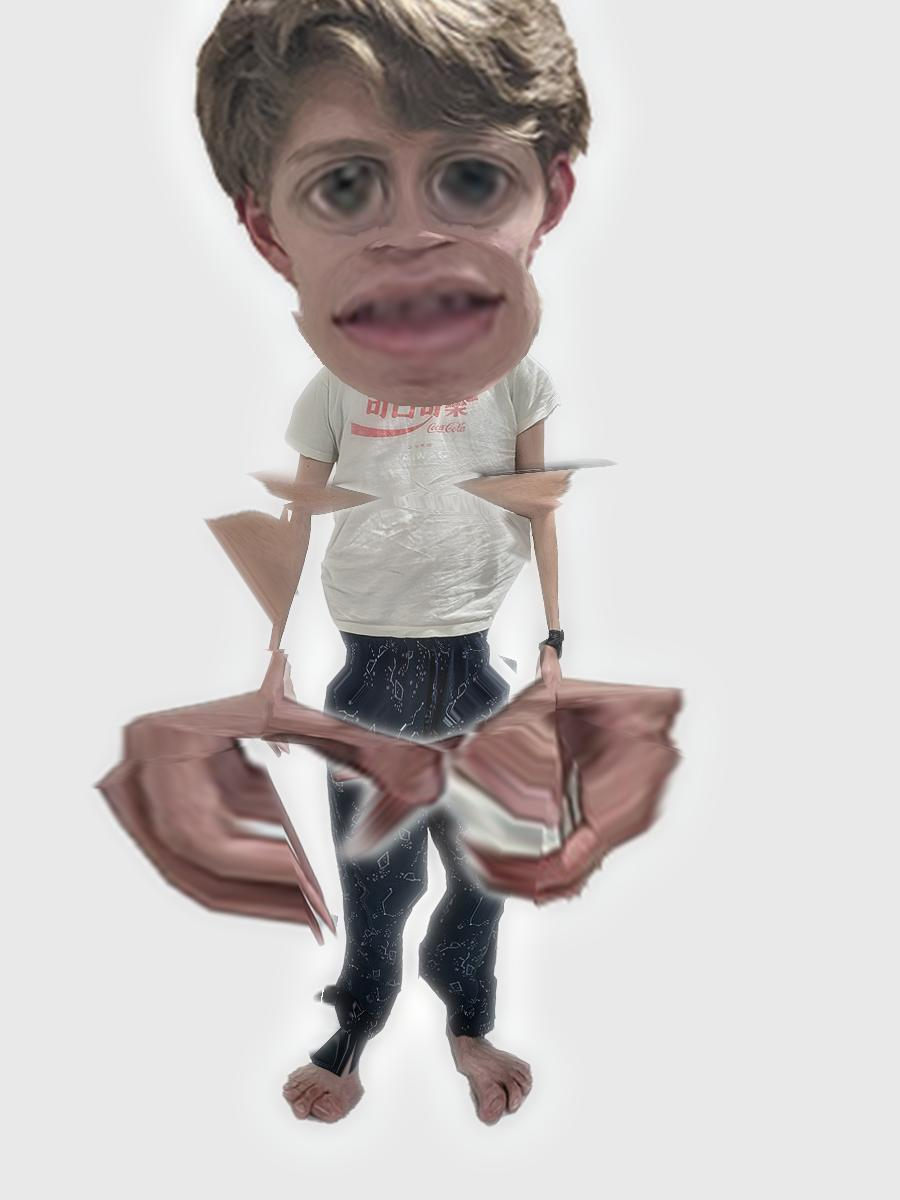
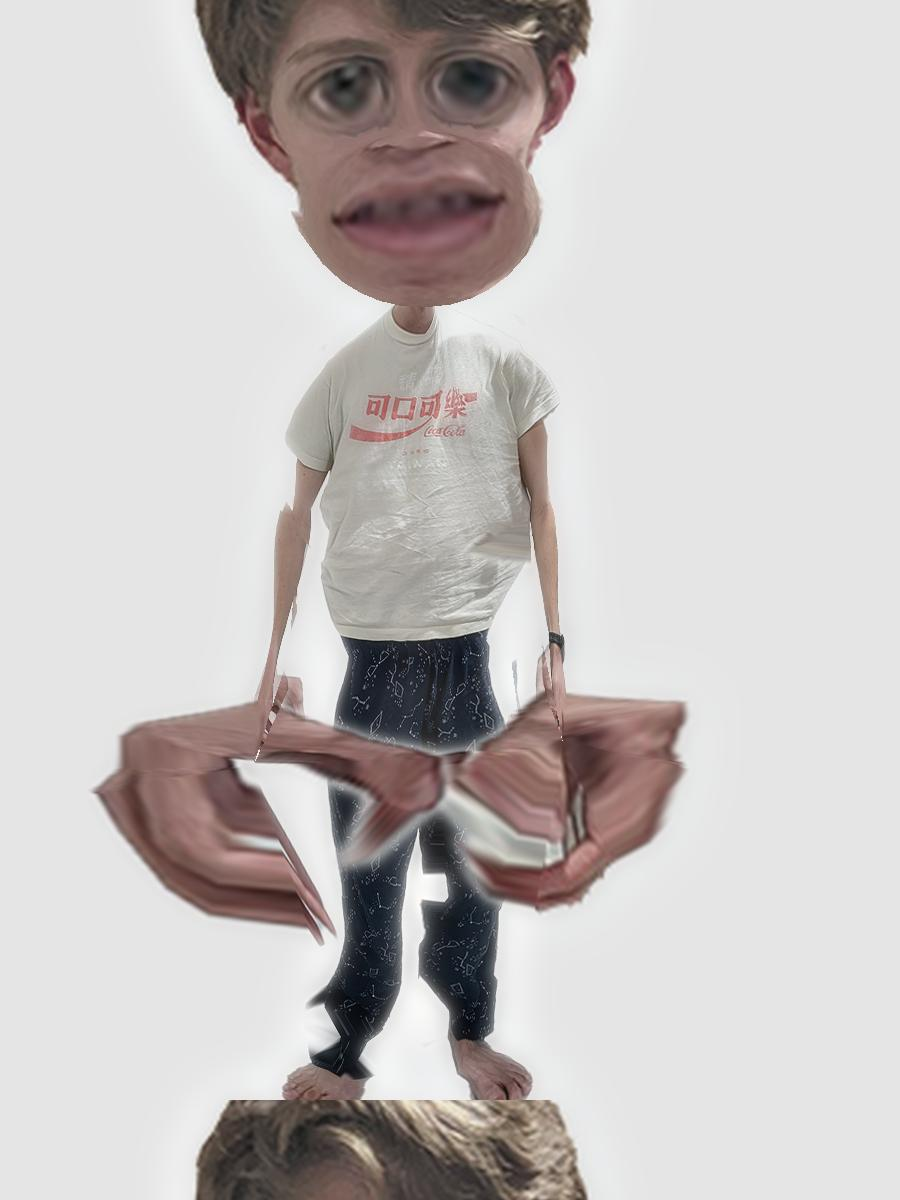
cleaned up edges using better derivatives

Changed region(s): [[0.1244, 0.0, 0.7778, 1.0], [0.0933, 0.6475, 0.1244, 0.6783]]

diff --git a/homunculize.py b/homunculize.py
@@ -15,6 +15,7 @@ import face_warp2 as face
 from face_warp2 import CircleWarper
 import face_point_parser as fp
 import sys
+from process_segmentation import get_part_by_name
 
 def pts_to_im(im, pts):
 	new_im = np.zeros_like(im)
@@ -29,7 +30,7 @@ def get_end_points(border, shared_border):
 	end_points = np.argwhere(bpt.find_border(shared_border, nonshared_border))
 	return [end_points[0], end_points[-1]]
 
-def single_seg_geometry(im, border, shared_border, r, sparsity, keep_endpoints=False):
+def single_seg_geometry(im, border, shared_border, r, adjacent_segs, sparsity, keep_endpoints=False):
 	border_im = pts_to_im(im, border)
 	try:
 		shared_border_im = pts_to_im(im, shared_border)
@@ -41,19 +42,17 @@ def single_seg_geometry(im, border, shared_border, r, sparsity, keep_endpoints=F
 	start_geometry = nonshared_border[hull.vertices]
 
 	target_geometry = []
-	filled_border = binary_fill_holes(border_im).astype(int)
-	blurred_border = skimage.filters.gaussian(filled_border, sigma=(3, 3), truncate=2)
+	# filled_border = binary_fill_holes(border_im).astype(int)
+	blurred_border = skimage.filters.gaussian(adjacent_segs, sigma=(3, 3), truncate=2)
 	grad_x, grad_y = np.gradient(blurred_border)
 
 	mags = []
-	i = 0 
 	for point in start_geometry:
 		dx = grad_x[int(point[0]), int(point[1])]
 		dy = grad_y[int(point[0]), int(point[1])]
 		mag = (dx**2 + dy**2)**0.5
 		mags.append(mag!=0)
 		if mag != 0:
-			i+= 1
 			dx /= mag 
 			dy /= mag 
 			target_geometry.append([int(point[0] - dx * r), int(point[1] - dy * r)])
@@ -112,21 +111,27 @@ def warp(parts, rs, im, im_seg, final, s):
 		part_border = part.general_points
 		adjacent_parts = list(part.get_borders())
 		shared_borders = np.array([])
+		adjacent_segs = get_part_by_name(im_seg, part.name)
+		for adjacent_part in adjacent_parts: 
+			adjacent_segs += get_part_by_name(im_seg, adjacent_part)
+		adjacent_segs = binary_fill_holes(adjacent_segs).astype(int)
+		# if part.name == "left_foot":
+		# 	utils.show_image(adjacent_segs)
 		for j in range(len(adjacent_parts)):
 			if j == 0:
 				shared_borders = part.get_border(adjacent_parts[j])
 			else: 
 				shared_borders = np.vstack((shared_borders, part.get_border(adjacent_parts[j])))
 		if i == 0: 
-			start_geometry, target_geometry = single_seg_geometry(im_seg, part_border, shared_borders, r, sparsity=s, keep_endpoints=True)
+			start_geometry, target_geometry = single_seg_geometry(im_seg, part_border, shared_borders, r, adjacent_segs, sparsity=s, keep_endpoints=True)
 		else: 
-			start, target = single_seg_geometry(im_seg, part_border, shared_borders, r, sparsity=s)
+			start, target = single_seg_geometry(im_seg, part_border, shared_borders, r, adjacent_segs, sparsity=s)
 			start_geometry = np.vstack((start, start_geometry))
 			target_geometry = np.vstack((target, target_geometry))
 	
 	# plt.imshow(im_seg)
-	# plt.scatter(start_geometry[:,1], start_geometry[:,0], s=5, c="r")
-	# plt.scatter(target_geometry[:,1], target_geometry[:,0], s=5, c="b")
+	# utils.scatter_pts(start_geometry, annotate=True)
+	# utils.scatter_pts(target_geometry, annotate=True)
 	# plt.show()
 
 	pts1 = np.fliplr(start_geometry)
@@ -217,6 +222,7 @@ if __name__ == "__main__":
 	idx = np.argwhere(full_face_warped)
 	final[idx[:,0]-100, idx[:,1]] = full_face_warped[idx[:,0], idx[:,1]]
 
+	# ACTUALLY DON"T UNCOMMENT 
 	# parts = [bpt.construct_left_thigh(segs), 
 	# 		bpt.construct_left_calf(segs),
 	# 		bpt.construct_left_foot(segs)]

diff --git a/process_segmentation.py b/process_segmentation.py
@@ -170,6 +170,8 @@ def get_part_by_name(im, name):
 		return get_left_foot(im)
 	elif name == "left_hand":
 		return get_left_hand(im)
+	elif name == "right_hand": 
+		return get_right_hand(im)
 	elif name == "left_forearm":
 		return get_left_forearm(im)
 	elif name == "right_forearm":
